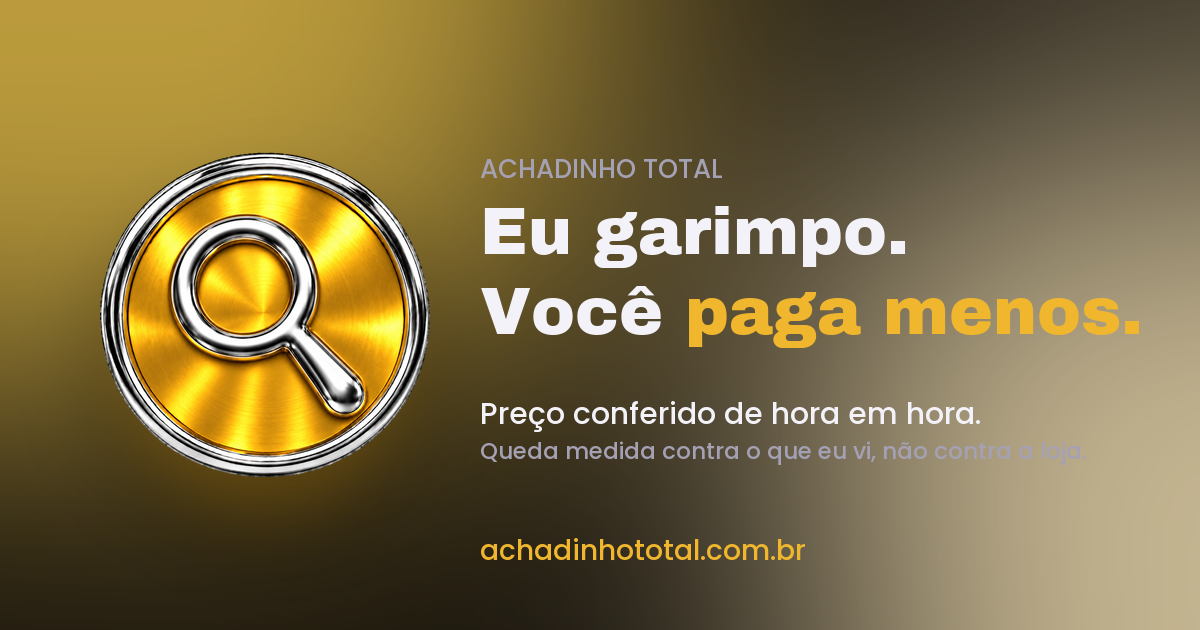
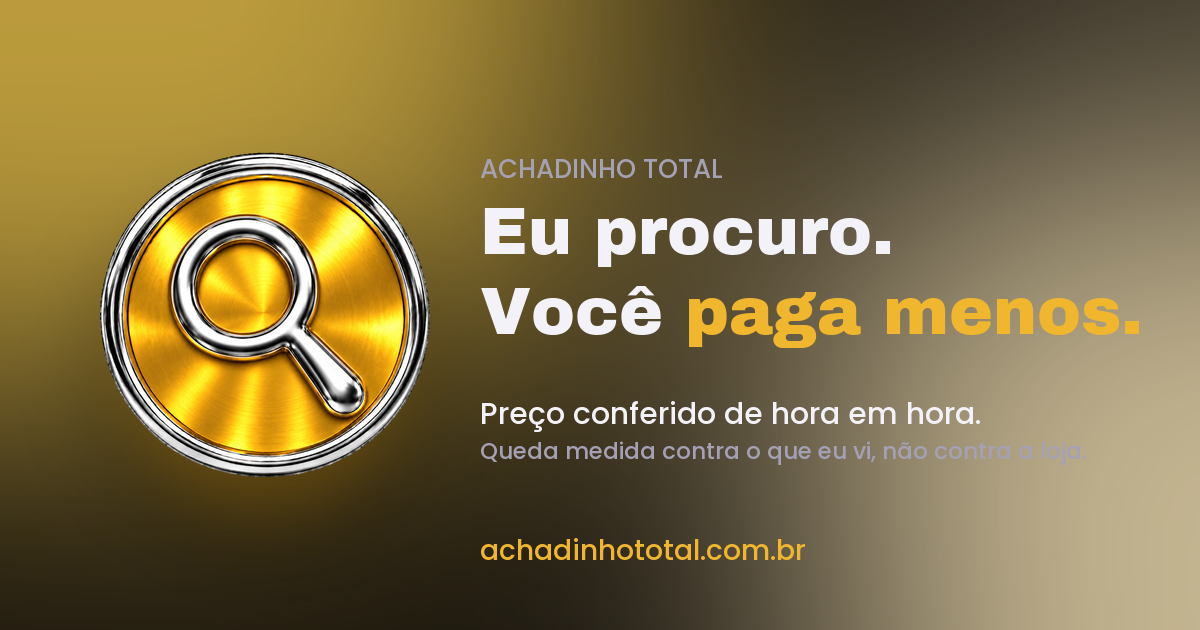
marca: 'Eu procuro. Voce paga menos.' em todo lugar (topo, bios, email, og); legenda do link pela dor do cliente

Changed region(s): [[0.4933, 0.3317, 0.7708, 0.4222]]

diff --git a/paginas/todos.html b/paginas/todos.html
@@ -21,7 +21,7 @@
 <link rel="apple-touch-icon" href="/icone_app.png">
 <link rel="icon" href="/favicon.ico" sizes="any">
 <link rel="icon" type="image/png" href="/icone.png">
-<meta name="description" content="O catálogo do Achadinho Total: produto, preço acompanhado dia a dia e link direto pra loja. O desconto é medido contra o preço que nós vimos.">
+<meta name="description" content="O catálogo do Achadinho Total: produto, preço acompanhado de hora em hora e link direto pra loja. O desconto é medido contra o preço que eu vi.">
 <meta name="awin" content="publisher">
 <!-- ⭐ INDEXACAO (17/09/2026): o dominio proprio e' o endereco canonico.
      A mesma pagina responde em achadinhototal.pages.dev; sem canonical o
@@ -34,21 +34,21 @@
 <!-- 19/09/2026 (Bryan: "mandei o link pra minha namorada, ficou feio"):
      a previa do chat e' o cartao de visita. Imagem 1200x630 propria
      (ferramentas/gerar_og.py), summary_large_image, titulo curto. -->
-<meta property="og:title" content="Achadinho Total — Eu garimpo. Você paga menos.">
-<meta property="og:description" content="Preço conferido de hora em hora. A queda é medida contra o que eu vi, não contra a loja.">
+<meta property="og:title" content="Achadinho Total — Eu procuro. Você paga menos.">
+<meta property="og:description" content="Viu um produto e ficou na dúvida se o preço está bom? Eu confiro de hora em hora e mostro só o que caiu de verdade.">
 <meta property="og:url" content="https://achadinhototal.com.br/">
 <meta property="og:image" content="https://achadinhototal.com.br/og_logo.png">
 <meta property="og:image:width" content="1200">
 <meta property="og:image:height" content="630">
-<meta property="og:image:alt" content="Achadinho Total — Eu garimpo. Você paga menos.">
+<meta property="og:image:alt" content="Achadinho Total — Eu procuro. Você paga menos.">
 <meta property="og:locale" content="pt_BR">
 <meta name="twitter:card" content="summary_large_image">
 <meta name="twitter:image" content="https://achadinhototal.com.br/og_logo.png">
 <!-- ⭐ SEO (22/09/2026, item 8 da fila): og:title/og:description ja' existiam,
      mas o Twitter/X nao herda os do OG de forma confiavel — as tags proprias
      sao a diferenca entre a previa vir certa ou vir generica em cima do fio. -->
-<meta name="twitter:title" content="Achadinho Total — Eu garimpo. Você paga menos.">
-<meta name="twitter:description" content="Preço conferido de hora em hora. A queda é medida contra o que eu vi, não contra a loja.">
+<meta name="twitter:title" content="Achadinho Total — Eu procuro. Você paga menos.">
+<meta name="twitter:description" content="Viu um produto e ficou na dúvida se o preço está bom? Eu confiro de hora em hora e mostro só o que caiu de verdade.">
 <!-- ⭐ DADOS ESTRUTURADOS (22/09/2026): Organization + WebSite, o par que da'
      ao Google uma ENTIDADE pra associar ao dominio (nao so' paginas soltas).
      `sameAs` aponta so' pro Telegram — e' o unico perfil com o MESMO nome do
@@ -66,7 +66,7 @@
  "name":"Achadinho Total","url":"https://achadinhototal.com.br/",
  "inLanguage":"pt-BR",
  "publisher":{"@id":"https://achadinhototal.com.br/#organizacao"},
- "description":"O catálogo do Achadinho Total: produto, preço acompanhado dia a dia e link direto pra loja. O desconto é medido contra o preço que nós vimos."}
+ "description":"O catálogo do Achadinho Total: produto, preço acompanhado de hora em hora e link direto pra loja. O desconto é medido contra o preço que eu vi."}
 ]}
 </script>
 <link rel="preconnect" href="https://fonts.googleapis.com">
@@ -2861,7 +2861,7 @@
     </div>
     <span class="marca-logo" id="logo"></span>
     <p class="marca-nome">Achadinho Total</p>
-    <h1>Eu garimpo.<br>Você <em>paga menos</em>.</h1>
+    <h1>Eu procuro.<br>Você <em>paga menos</em>.</h1>
     <!-- rapport + authority: primeira pessoa, e o que sustenta a frase vem
          logo abaixo em numero. -->
     <!-- ⚠ O PARAGRAFO SAIU DAQUI (14/09/2026, Bryan: "parece uma bio").

diff --git a/paginas/contra_capa.html b/paginas/contra_capa.html
@@ -781,7 +781,7 @@
       acento: "#E0157F",
       promessa: "Maquiagem e beleza importada que chega por bem menos do que você imagina.",
       vantagens: [
-        ["🔎", "Eu garimpo, olho a avaliação e só mostro o que presta"],
+        ["🔎", "Eu procuro, olho a avaliação e só mostro o que presta"],
         ["💸", "Preço de importado sem a cara de importado"],
         ["📦", "Link direto, sem enrolação no meio do caminho"]
       ],
@@ -1573,7 +1573,7 @@
     // enderecos — isso e' detalhe de hospedagem, nao de marca.
     document.getElementById("marca").textContent = c.nome;
     document.getElementById("chamada").innerHTML =
-      "Eu garimpo.<br>Você <em>paga menos</em>.";
+      "Eu procuro.<br>Você <em>paga menos</em>.";
 
     // ⚠ PROVA, NAO PROMESSA. Os tres numeros saem dos produtos que estao
     // na pagina; nenhum e' escrito na mao. Numero de vitrine que nao bate

diff --git a/ferramentas/email_inauguracao.py b/ferramentas/email_inauguracao.py
@@ -21,7 +21,7 @@ RAIZ = Path(__file__).resolve().parent.parent
 sys.path.insert(0, str(RAIZ)); sys.path.insert(0, str(RAIZ / "paginas"))
 SITE = "https://achadinhototal.com.br"
 UTM = "utm_source=email&utm_medium=inauguracao&utm_campaign=inauguracao_2026_09"
-ASSUNTO = "🎈 Inauguramos: eu garimpo, você paga menos"
+ASSUNTO = "🎈 Inauguramos: eu procuro, você paga menos"
 PREHEADER = "As maiores quedas de preço de hoje, conferidas por mim. Sem enrolação."
 
 
@@ -76,7 +76,7 @@ def montar():
 <table width="100%" cellpadding="0" cellspacing="0" style="max-width:600px">
  <tr><td align="center"><a href="{SITE}/?{UTM}"><img src="{SITE}/baloes/email_inauguracao.png" width="600" alt="Inauguração do Achadinho Total" style="display:block;width:100%;max-width:600px;height:auto"></a></td></tr>
  <tr><td align="center" style="padding:8px 20px 0;font:12px/1 Arial,Helvetica,sans-serif;letter-spacing:4px;color:#6b6776">ACHADINHO TOTAL</td></tr>
- <tr><td align="center" style="padding:10px 20px 6px;font:800 30px/1.15 Arial,Helvetica,sans-serif;color:#16141c">Eu garimpo.<br>Você <span style="color:#c8921c">paga menos</span>.</td></tr>
+ <tr><td align="center" style="padding:10px 20px 6px;font:800 30px/1.15 Arial,Helvetica,sans-serif;color:#16141c">Eu procuro.<br>Você <span style="color:#c8921c">paga menos</span>.</td></tr>
  <tr><td align="center" style="padding:6px 28px 18px;font:16px/1.55 Arial,Helvetica,sans-serif;color:#3b3845">
    O Achadinho Total abriu as portas. Todo dia eu confiro o preço de mais de <b>1.600 produtos</b> em várias lojas e só mostro o que <b>caiu de verdade</b> — comparando com o que eu mesmo vi antes, não com o "de" inflado do vendedor.</td></tr>
  <tr><td align="center" style="padding:4px 20px 8px;font:700 17px/1.2 Arial,Helvetica,sans-serif;color:#16141c">As maiores quedas de hoje ({hora})</td></tr>

diff --git a/ferramentas/gerar_og.py b/ferramentas/gerar_og.py
@@ -76,7 +76,7 @@ def gerar(escuro: bool = False, inauguracao: bool = False) -> Path:
     d.text((x, 150), "INAUGURAÇÃO · ACHADINHO TOTAL" if inauguracao else "ACHADINHO TOTAL",
            font=fonte("Poppins-Medium.ttf", 26), fill=ouro if inauguracao else fraco, spacing=4)
     f1 = fonte("ArchivoBlack.ttf", 66)
-    d.text((x, 196), "Eu garimpo.", font=f1, fill=tinta)
+    d.text((x, 196), "Eu procuro.", font=f1, fill=tinta)
     d.text((x, 276), "Você ", font=f1, fill=tinta)
     dx = d.textlength("Você ", font=f1)
     d.text((x + dx, 276), "paga menos.", font=f1, fill=ouro)

diff --git a/ferramentas/og_buque_texto.py b/ferramentas/og_buque_texto.py
@@ -32,7 +32,7 @@ def main() -> Path:
     x = 630
     d.text((x, 150), "ACHADINHO TOTAL", font=fonte("Poppins-Medium.ttf", 26), fill=fraco)
     f1 = fonte("ArchivoBlack.ttf", 54)
-    d.text((x, 196), "Eu garimpo.", font=f1, fill=tinta)
+    d.text((x, 196), "Eu procuro.", font=f1, fill=tinta)
     d.text((x, 264), "Você ", font=f1, fill=tinta)
     d.text((x + d.textlength("Você ", font=f1), 264), "paga menos.", font=f1, fill=ouro)
     d.text((x, 384), "Preço conferido de hora em hora.", font=fonte("Poppins-Medium.ttf", 29), fill=tinta)
